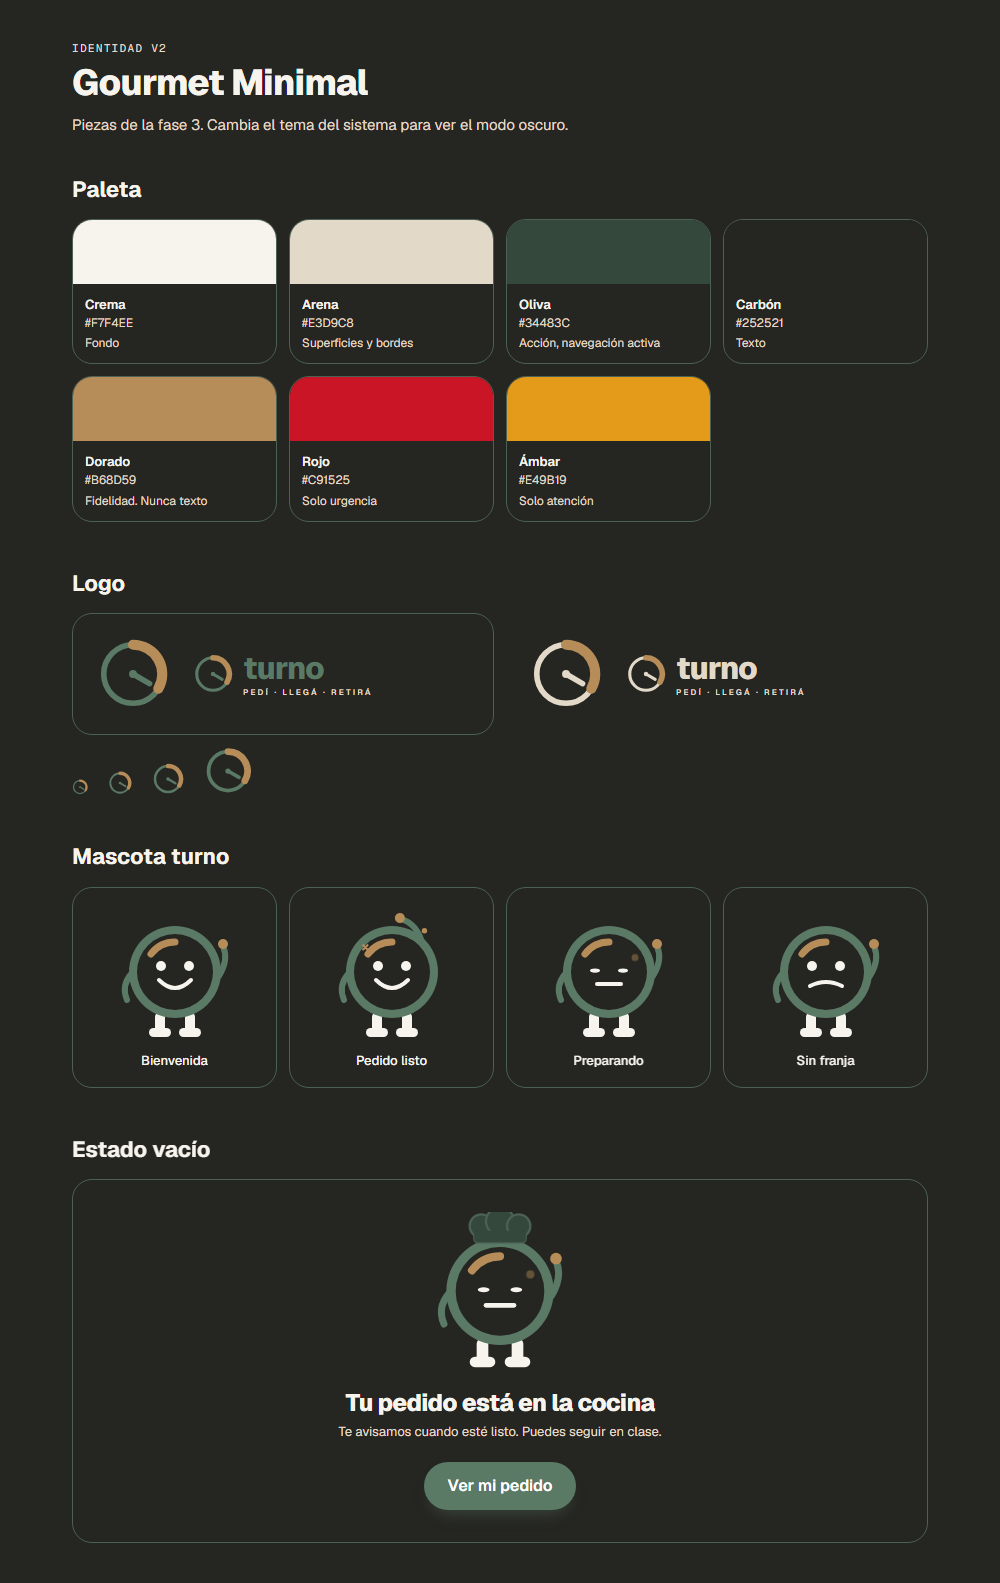
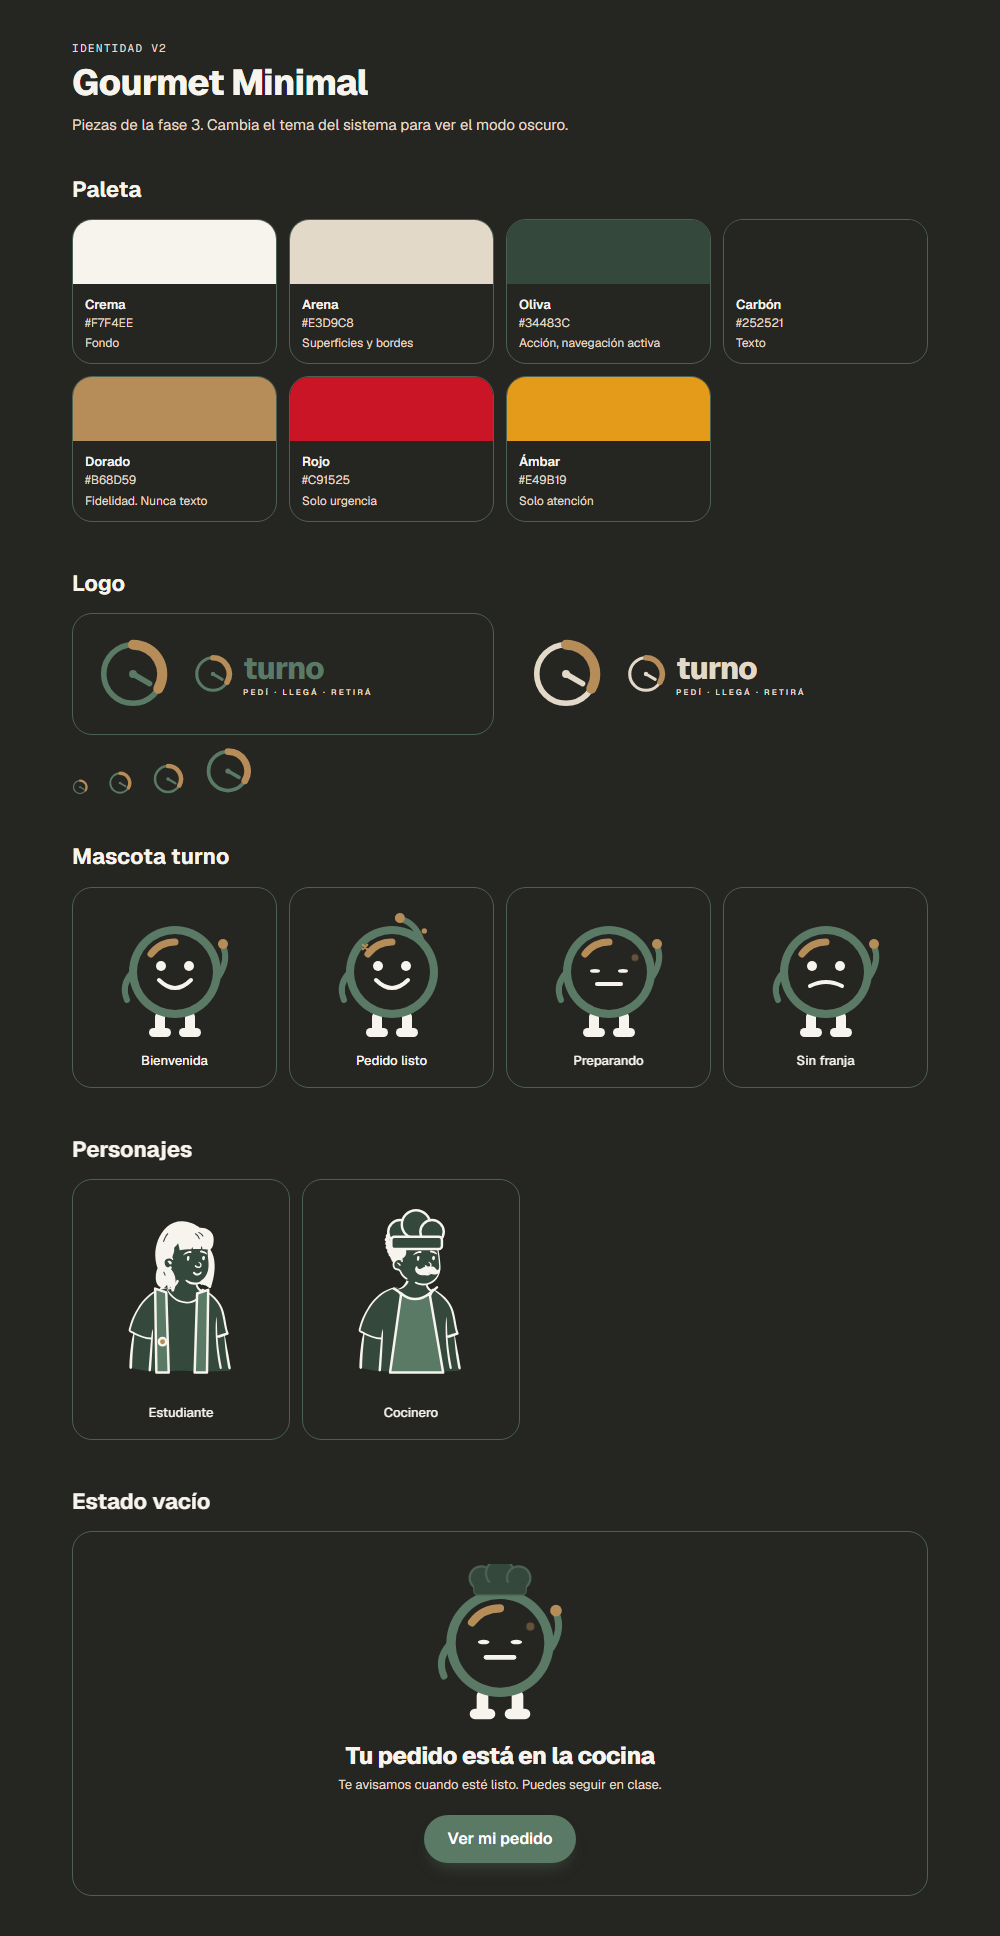
feat(identidad): personajes Open Peeps, correo y graficos con la paleta nueva, reglas del linter
- estudiante y cocinero de Open Peeps (CC0) con accesorios propios, via <use> y variables CSS
- graficos, correo y ComparacionReceso salen de los tokens
- text-aviso-texto para el ambar como texto; el linter prohibe dorado y ambar como letra
- banda y beneficios del correo regenerados
- instantaneas visuales regeneradas con aprobacion de Norman

diff --git a/scripts/linter-design-system.ts b/scripts/linter-design-system.ts
@@ -110,7 +110,7 @@ export function analizar(): Hallazgo[] {
 
       // 1 — color literal fuera de token
       if (!eximido(rel, "color-literal")) {
-        for (const m of codigo.matchAll(/#[0-9a-fA-F]{6}\b/g)) {
+        for (const m of codigo.matchAll(/#(?:[0-9a-fA-F]{6}|[0-9a-fA-F]{3})\b/g)) {
           const hex = m[0].toLowerCase();
           // Si el hex ES uno de los declarados en globals.css, sigue siendo un
           // literal: el problema no es el valor, es que no pasa por el token.
@@ -123,6 +123,37 @@ export function analizar(): Hallazgo[] {
               ? `es el valor de un token declarado: usar la variable, no el hex`
               : `color fuera del Design System`,
           });
+        }
+      }
+
+      /*
+       * 1b — colores que no son de texto (ADR-22)
+       *
+       * Dorado (fidelidad, atencion) y ambar (aviso) dan 2.76:1 y 2.13:1 sobre
+       * crema: sirven de relleno, borde e icono grande, nunca de letra. Para
+       * texto ambar existe `text-aviso-texto`. `text-brasa` es el alias del
+       * ambar brillante y solo vale en la cocina, que es oscura siempre.
+       */
+      if (!eximido(rel, "color-no-texto")) {
+        for (const m of codigo.matchAll(/\btext-(aviso|atencion|fidelidad|maiz)\b(?!-)/g)) {
+          hallazgos.push({
+            archivo: rel,
+            linea: n,
+            regla: "color-no-texto",
+            texto: m[0],
+            detalle: "dorado y ambar no pasan AA como texto: usar text-aviso-texto o un color de texto",
+          });
+        }
+        if (!rel.includes("/cocina/")) {
+          for (const m of codigo.matchAll(/\btext-brasa\b/g)) {
+            hallazgos.push({
+              archivo: rel,
+              linea: n,
+              regla: "color-no-texto",
+              texto: m[0],
+              detalle: "text-brasa solo en la cocina: fuera de ella usar text-aviso-texto",
+            });
+          }
         }
       }
 

diff --git a/src/components/mascota/Personaje.tsx b/src/components/mascota/Personaje.tsx
@@ -1,0 +1,51 @@
+"use client";
+
+import { m } from "motion/react";
+
+/**
+ * Personajes de Open Peeps (CC0), recoloreados con la paleta de TURNO (ADR-22).
+ *
+ * Los dibujos viven en `public/personajes/*.svg` y se referencian con `<use>`:
+ * un solo archivo cacheado en lugar de 30 KB de trazos dentro del JS de cada
+ * ruta. Los colores son variables CSS que cruzan el `<use>`, así que siguen el
+ * tema claro y oscuro sin una segunda copia de cada archivo.
+ *
+ * Accesorios propios de TURNO sobre el dibujo: mochila (estudiante) y delantal
+ * con gorro de cocina (cocinero). Origen y licencia: `docs/licencias-assets.md`.
+ */
+export type QuienPersonaje = "estudiante" | "cocinero";
+
+const COLORES = {
+  "--peep-tinta": "var(--color-texto)",
+  "--peep-papel": "var(--color-superficie)",
+  "--peep-marca": "var(--color-marca-fondo)",
+  "--peep-dorado": "var(--color-fidelidad)",
+} as React.CSSProperties;
+
+export function Personaje({
+  quien,
+  size = 160,
+  titulo,
+}: {
+  quien: QuienPersonaje;
+  /** Altura en px. El dibujo mide 240x324. */
+  size?: number;
+  titulo?: string;
+}) {
+  return (
+    <m.svg
+      viewBox="0 0 240 324"
+      width={(size * 240) / 324}
+      height={size}
+      style={COLORES}
+      role={titulo ? "img" : undefined}
+      aria-label={titulo}
+      aria-hidden={titulo ? undefined : true}
+      initial={{ y: 16, opacity: 0 }}
+      animate={{ y: 0, opacity: 1 }}
+      transition={{ type: "spring", stiffness: 300, damping: 24 }}
+    >
+      <use href={`/personajes/${quien}.svg#fig`} />
+    </m.svg>
+  );
+}

diff --git a/src/components/graficos.tsx b/src/components/graficos.tsx
@@ -14,10 +14,10 @@
  * pico y una tabla con los mismos números debajo.
  */
 
-const A = "#009ca6";
-const B = "#c26208";
-const REJILLA = "#dde9ea";
-const TINTA_TENUE = "#60636b";
+const A = "var(--color-marca-fondo)";
+const B = "var(--color-fidelidad)";
+const REJILLA = "var(--color-borde)";
+const TINTA_TENUE = "var(--color-texto-2)";
 
 export interface PuntoFranja {
   hora: string;
@@ -364,7 +364,7 @@ export function CumplimientoPorDia({ dias }: { dias: PuntoDia[] }) {
           y={y(META)}
           width={ancho}
           height={alto - y(META)}
-          fill="#ff5247"
+          fill="var(--color-error)"
           opacity="0.06"
         />
 
@@ -402,8 +402,8 @@ export function CumplimientoPorDia({ dias }: { dias: PuntoDia[] }) {
               cy={y(p.tasaCumplimiento!)}
               // El último va más grande: es el estado de hoy, no un día más.
               r={esUltimo ? 2.2 : falla ? 1.7 : 1.2}
-              fill={falla ? "#ff5247" : A}
-              stroke="#ffffff"
+              fill={falla ? "var(--color-error)" : A}
+              stroke="var(--color-fondo)"
               strokeWidth="0.6"
             >
               <title>{`${p.dia} · ${(p.tasaCumplimiento! * 100).toFixed(0)}% · ${p.pedidos} pedidos`}</title>

diff --git a/src/lib/correo-plantilla.ts b/src/lib/correo-plantilla.ts
@@ -50,7 +50,7 @@
  * La paleta.
  *
  * Del Design System vigente (`globals.css`), no de la lámina de marca: esa
- * propone `#E53935` y acá el rojo es `#C91525`. Se usa el de la aplicación
+ * propone otro rojo y acá la marca es oliva (`#34483C`, ADR-22). Se usa el de la aplicación
  * porque lo que se pidió es que el correo se vea parte del mismo producto, y
  * el producto es el que está desplegado.
  *
@@ -59,22 +59,22 @@
  * sistema aparece en el botón, lejos.
  */
 const C = {
-  marca: "#c91525",
+  marca: "#34483c",
   acento: "#e49b19",
-  tinta: "#171717",
-  fondo: "#f7f7f5",
-  superficie: "#ffffff",
-  superficie2: "#f1f2f0",
-  borde: "#e4e4e1",
-  texto: "#171717",
-  texto2: "#6b6b6b",
-  texto3: "#757575",
-  oscFondo: "#101010",
-  oscSuperficie: "#181818",
-  oscSuperficie2: "#222222",
-  oscBorde: "#303030",
-  oscTexto: "#ffffff",
-  oscTexto2: "#b7b7b7",
+  tinta: "#252521",
+  fondo: "#f7f4ee",
+  superficie: "#f7f4ee",
+  superficie2: "#e3d9c8",
+  borde: "#e3d9c8",
+  texto: "#252521",
+  texto2: "#34483c",
+  texto3: "#34483c",
+  oscFondo: "#252521",
+  oscSuperficie: "#34483c",
+  oscSuperficie2: "#2d3e34",
+  oscBorde: "#4b6154",
+  oscTexto: "#f7f4ee",
+  oscTexto2: "#e3d9c8",
 } as const;
 
 const FUENTE =

diff --git a/src/app/identidad/page.tsx b/src/app/identidad/page.tsx
@@ -1,5 +1,6 @@
 import type { Metadata } from "next";
 import { LogotipoTurno, MarcaTurno } from "@/components/marca";
+import { Personaje } from "@/components/mascota/Personaje";
 import { MascotaTurno } from "@/components/mascota/Turno";
 
 export const metadata: Metadata = {
@@ -78,6 +79,20 @@ export default function Identidad() {
               <p className="mt-2 text-chico font-medium">{e.texto}</p>
             </li>
           ))}
+        </ul>
+      </section>
+
+      <section className="mt-12" aria-labelledby="personajes">
+        <h2 id="personajes" className="text-h2 font-bold">Personajes</h2>
+        <ul className="mt-4 grid grid-cols-2 gap-3 sm:max-w-md">
+          <li className="flex flex-col items-center rounded-lg border border-borde p-4">
+            <Personaje quien="estudiante" size={200} titulo="Estudiante" />
+            <p className="mt-2 text-chico font-medium">Estudiante</p>
+          </li>
+          <li className="flex flex-col items-center rounded-lg border border-borde p-4">
+            <Personaje quien="cocinero" size={200} titulo="Cocinero" />
+            <p className="mt-2 text-chico font-medium">Cocinero</p>
+          </li>
         </ul>
       </section>
 

diff --git a/src/components/ReglaFranjas.tsx b/src/components/ReglaFranjas.tsx
@@ -179,7 +179,7 @@ export function ReglaFranjas({
                     {TEXTO_MARGEN[margenDe(o, cargaPedidoMin, ahora)]}
                   </span>
                   {porCerrar && (
-                    <span className="mt-0.5 flex items-center justify-center gap-0.5 text-[0.625rem] font-semibold text-aviso">
+                    <span className="mt-0.5 flex items-center justify-center gap-0.5 text-[0.625rem] font-semibold text-aviso-texto">
                       <Icono nombre="reloj" size={10} />
                       {cierraEnMin <= 0
                         ? "cierra ya"
@@ -212,7 +212,7 @@ export function ReglaFranjas({
           minutosHasta(o.cierraEn, ahora) <= 10 &&
           minutosHasta(o.cierraEn, ahora) >= 0,
       ) && (
-        <p className="mt-1 flex items-center gap-1.5 text-xs text-aviso">
+        <p className="mt-1 flex items-center gap-1.5 text-xs text-aviso-texto">
           <Icono nombre="reloj" size={13} />
           Las horas marcadas cierran pronto: después de esa hora ya no da el
           tiempo de cocina para tenerlo listo.

diff --git a/src/app/globals.css b/src/app/globals.css
@@ -61,6 +61,9 @@
   --color-error: #c91525;
   --color-error-suave: #f5e9e4;
   --color-aviso: #e49b19;
+  /* Ambar como TEXTO sobre superficies claras: #e49b19 da 2.13:1 sobre crema.
+     #7f5300 da 6.09:1 sobre crema y 5.35:1 sobre atencion-suave. */
+  --color-aviso-texto: #7f5300;
   /* Fidelidad (ADR-22): hábito, favoritos, código de retiro. Decorativo, nunca texto sobre crema. */
   --color-fidelidad: #b68d59;
 
@@ -213,6 +216,7 @@
        #ff6b5e da 5.51:1 sobre el fondo y 5.61:1 sobre su tinte. */
     --color-error: #ff6b5e;
     --color-error-suave: #3a1a17;
+    --color-aviso-texto: #f2b84b;
     --color-cocina: #252521;
     --color-cocina-alto: #34483c;
     --color-cocina-borde: #4b6154;
@@ -248,6 +252,7 @@
      #ff6b5e da 5.51:1 sobre el fondo y 5.61:1 sobre su tinte. */
   --color-error: #ff6b5e;
   --color-error-suave: #3a1a17;
+  --color-aviso-texto: #f2b84b;
   --color-cocina: #252521;
   --color-cocina-alto: #34483c;
   --color-cocina-borde: #4b6154;

diff --git a/src/app/avisos/preferencias/page.tsx b/src/app/avisos/preferencias/page.tsx
@@ -159,7 +159,7 @@ export default function Pagina() {
                       {/* La advertencia aparece solo cuando ya está apagado:
                           mostrarla siempre sería presionar para no tocarlo. */}
                       {!activo && o.advertencia && (
-                        <span className="mt-2 flex items-start gap-1.5 text-caption text-aviso">
+                        <span className="mt-2 flex items-start gap-1.5 text-caption text-aviso-texto">
                           <Icono nombre="reloj" size={13} className="mt-0.5" />
                           {o.advertencia}
                         </span>

diff --git a/src/app/panel/usuarios/page.tsx b/src/app/panel/usuarios/page.tsx
@@ -143,7 +143,7 @@ export default function Pagina() {
               {u.passwordInicial && (
                 /* La contraseña inicial la conoce quien creó la cuenta, no solo
                    su dueño. Mientras no la cambie, es una puerta abierta. */
-                <p className="mt-2 flex items-center gap-1.5 text-caption font-semibold text-aviso">
+                <p className="mt-2 flex items-center gap-1.5 text-caption font-semibold text-aviso-texto">
                   <Icono nombre="reloj" size={13} />
                   Sigue con la contraseña inicial sin cambiar
                 </p>

diff --git a/src/components/ComparacionReceso.tsx b/src/components/ComparacionReceso.tsx
@@ -52,13 +52,13 @@ interface Tramo {
  * en modo oscuro (punto 20 de la auditoria).
  *
  * Los tres valores estan elegidos contra el texto que llevan encima:
- *   #d92d20 con blanco -> 4.83:1
+ *   #c91525 con blanco -> 5.81:1 (urgencia)
  *   #e49b19 con tinta  -> 7.68:1
- *   #c91525 con blanco -> 5.81:1
+ *   #34483c con blanco -> 8.95:1 (oliva, la solución)
  */
-const ROJO_FILA = "#d92d20";
+const ROJO_FILA = "#c91525";
 const AMBAR_COCINA = "#e49b19";
-const ROJO_MARCA = "#c91525";
+const ROJO_MARCA = "#34483c";
 
 const SIN: Tramo[] = [
   {

diff --git a/src/app/c/[slug]/ClienteComercio.tsx b/src/app/c/[slug]/ClienteComercio.tsx
@@ -1169,7 +1169,7 @@ export function ClienteComercio({
                 {!franjaElegida ? (
                   "Elegí una hora arriba"
                 ) : veredicto?.tipo === "NO_CABE" ? (
-                  <span className="font-semibold text-aviso">
+                  <span className="font-semibold text-aviso-texto">
                     {veredicto.alternativa
                       ? `No llega — con lugar a las ${horaCorta(veredicto.alternativa.inicio)}`
                       : "No llega, y hoy no queda otra hora"}

diff --git a/src/app/InicioCliente.tsx b/src/app/InicioCliente.tsx
@@ -407,7 +407,7 @@ export function InicioCliente({
                           className={`shrink-0 rounded-full px-2.5 py-1 text-caption font-semibold ${
                             c.abierto
                               ? "bg-exito-suave text-exito"
-                              : "bg-atencion-suave text-aviso"
+                              : "bg-atencion-suave text-aviso-texto"
                           }`}
                         >
                           {c.abierto ? "Abierto" : "Pausado"}
